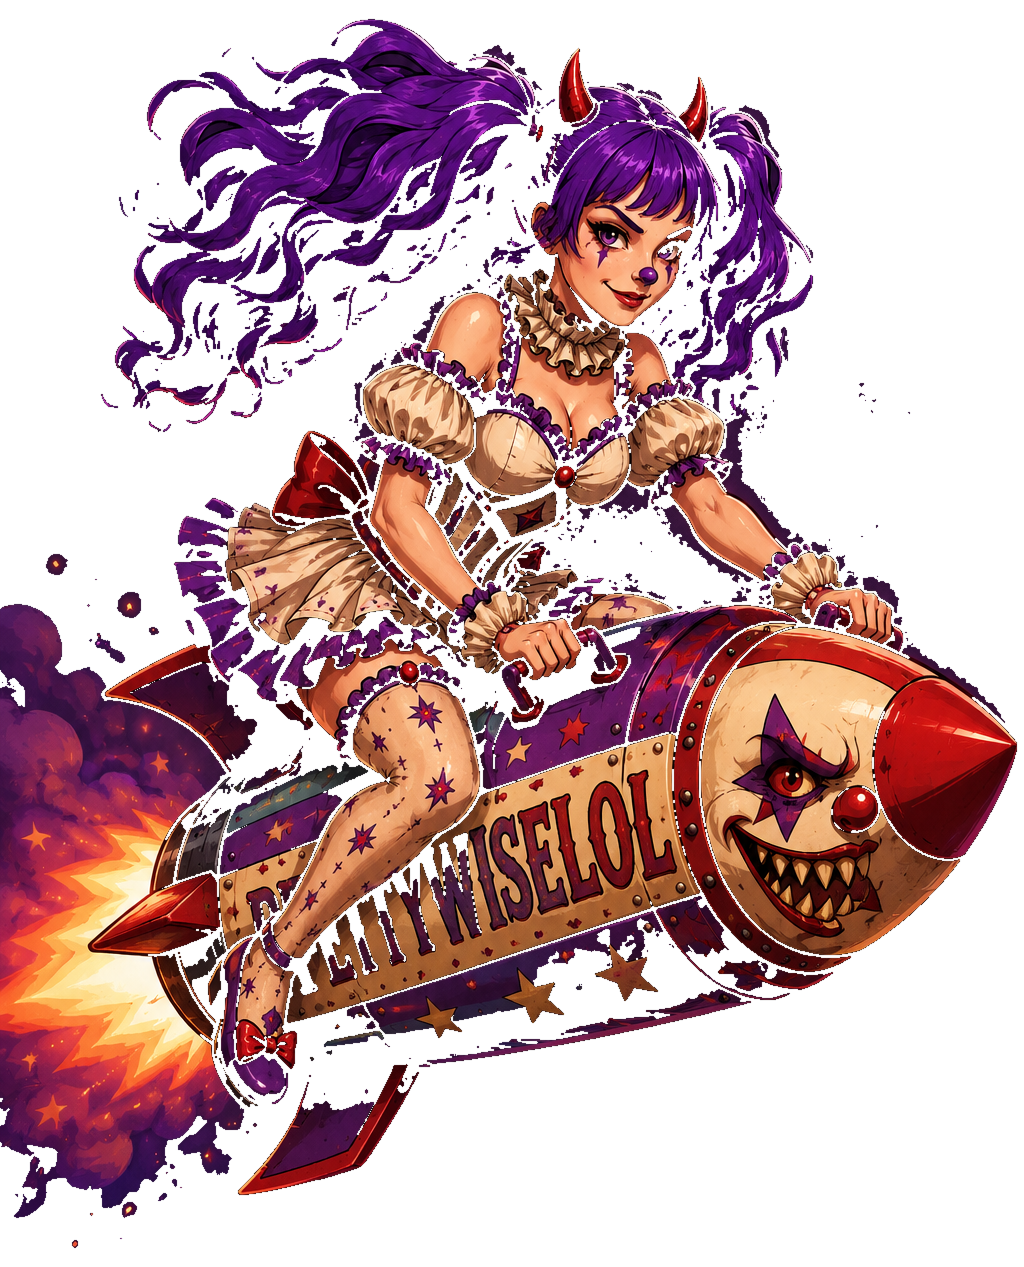
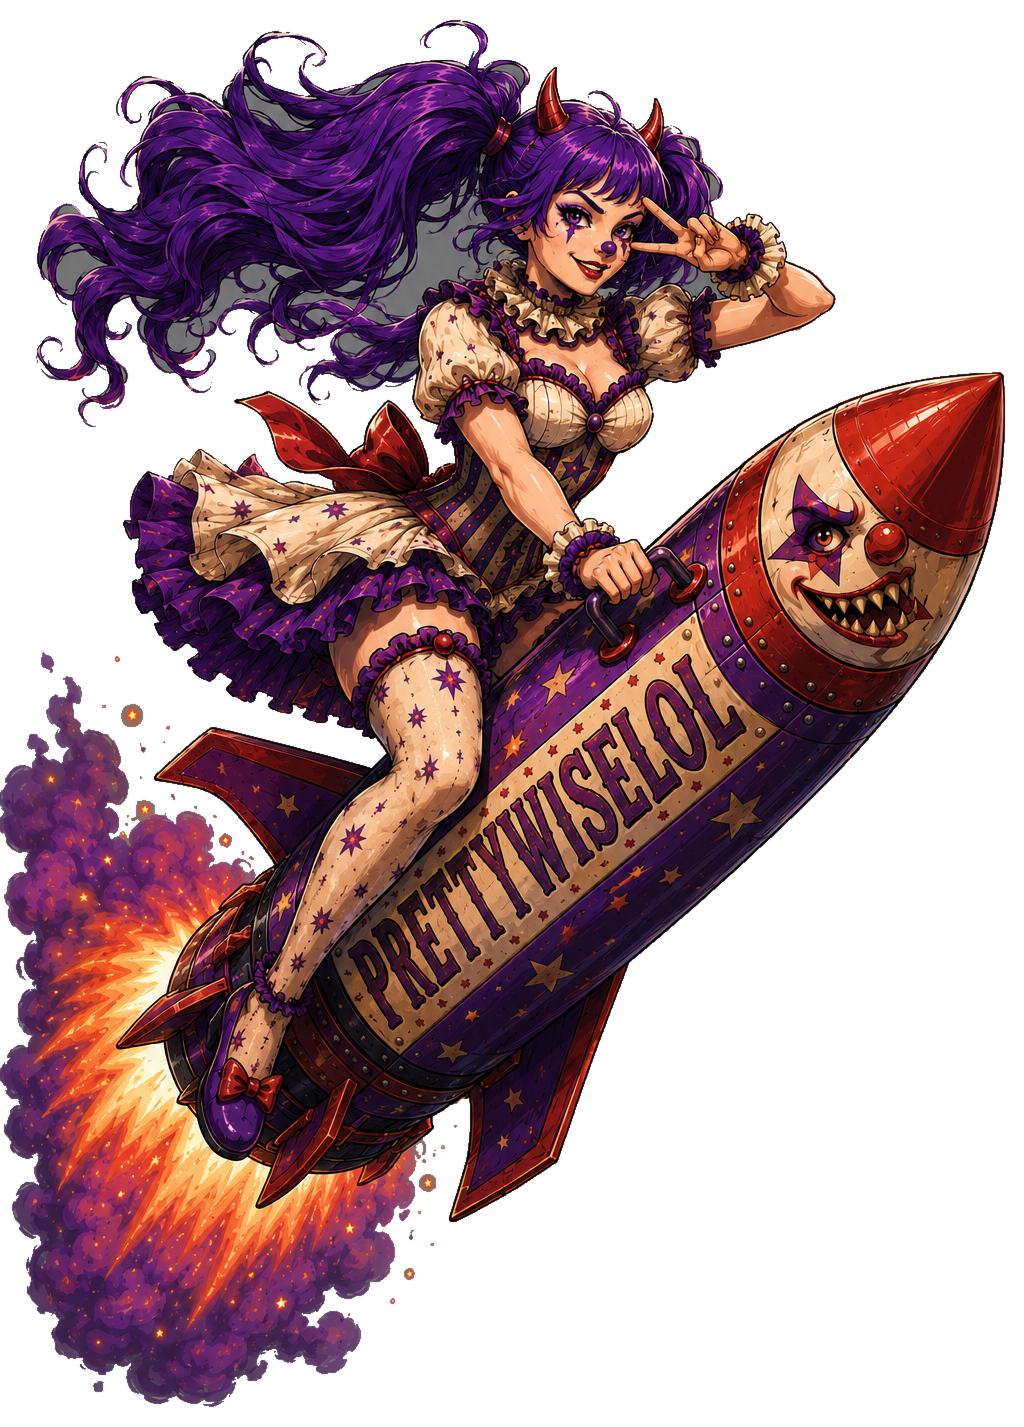
Replace PettyWiselol art and normalize sprite sizes

diff --git a/index.html b/index.html
@@ -613,6 +613,8 @@
     const BACKGROUND_JUMPS_PER_SCENE = 8;
     const BACKGROUND_TRANSITION_SECONDS = 1.8;
     const BACKGROUND_LAYER_ZOOM = 1.08;
+    const GAMEPLAY_SPRITE_MAX_W = 90;
+    const GAMEPLAY_SPRITE_MAX_H = 72;
     let leaderboardDb = null;
     let leaderboardApi = null;
     let leaderboardInitPromise = null;
@@ -2023,7 +2025,7 @@
       const p = state.player;
       const character = characters[state.selectedCharacter] || characters[0];
       if (character.image.complete && character.image.naturalWidth) {
-        drawCharacterImage(character, p.x, p.y, character.spriteW, p.rotation, true);
+        drawCharacterImage(character, p.x, p.y, gameplaySpriteWidth(character), p.rotation, true);
         return;
       }
 
@@ -2032,6 +2034,16 @@
       ctx.rotate(p.rotation);
       drawFallbackPlayer(p);
       ctx.restore();
+    }
+
+    function gameplaySpriteWidth(character) {
+      const image = character.image;
+      const baseW = Math.min(character.spriteW, GAMEPLAY_SPRITE_MAX_W);
+      if (!image.complete || !image.naturalWidth || !image.naturalHeight) {
+        return baseW;
+      }
+      const ratio = image.naturalHeight / image.naturalWidth;
+      return Math.min(baseW, GAMEPLAY_SPRITE_MAX_H / ratio);
     }
 
     function drawFallbackPlayer(p) {
